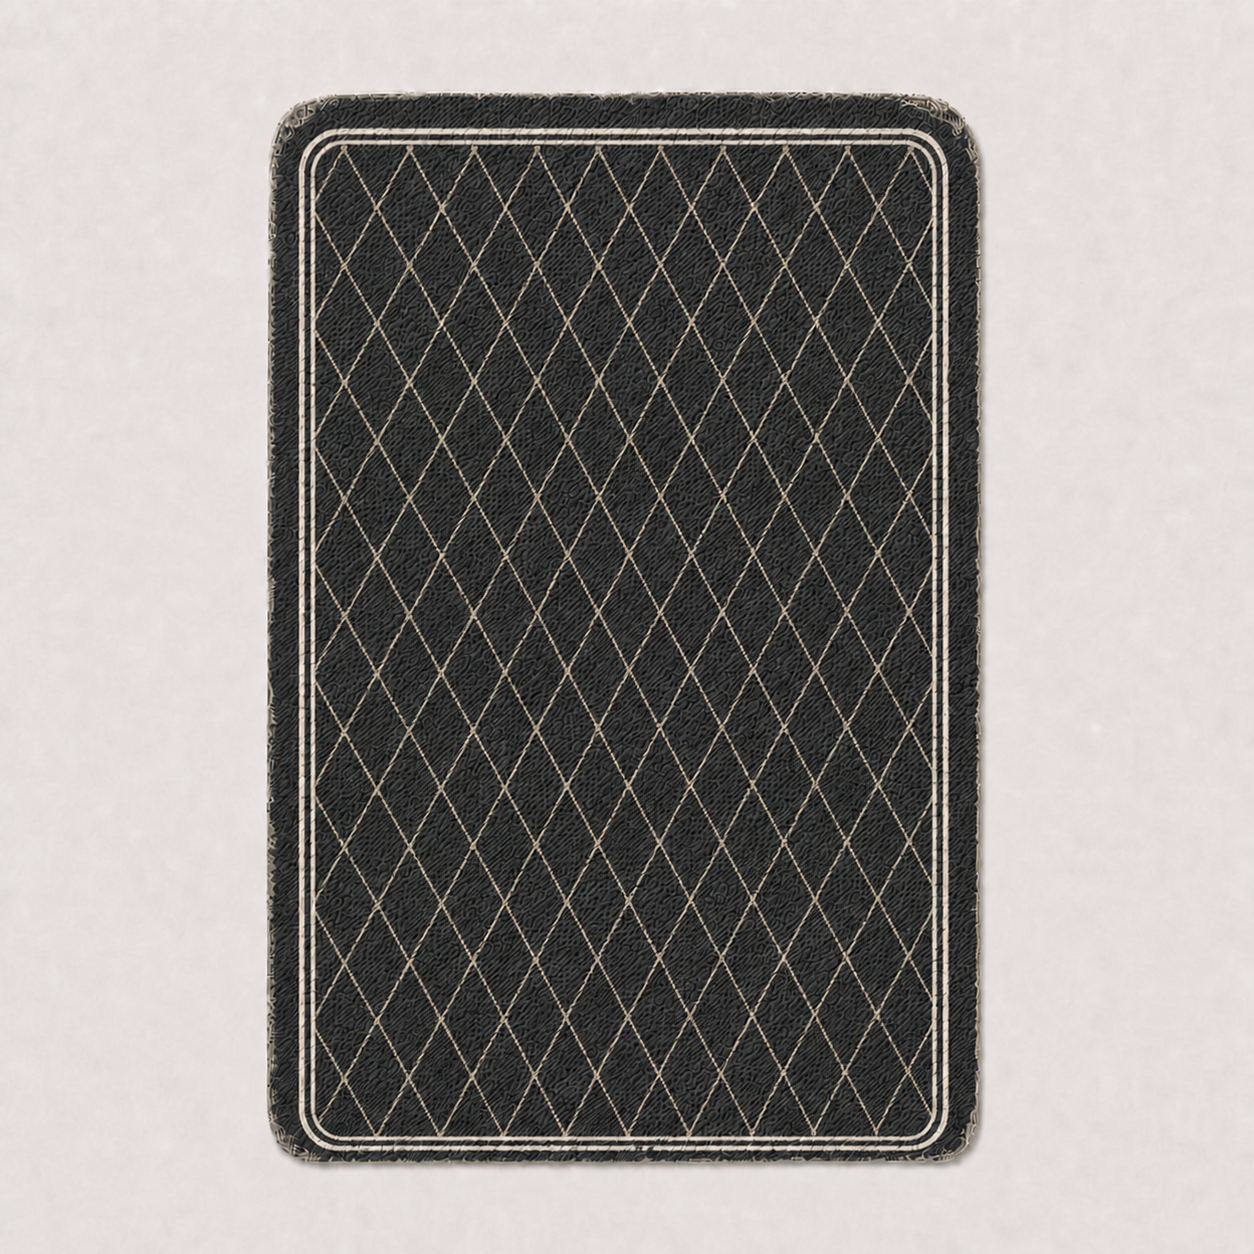
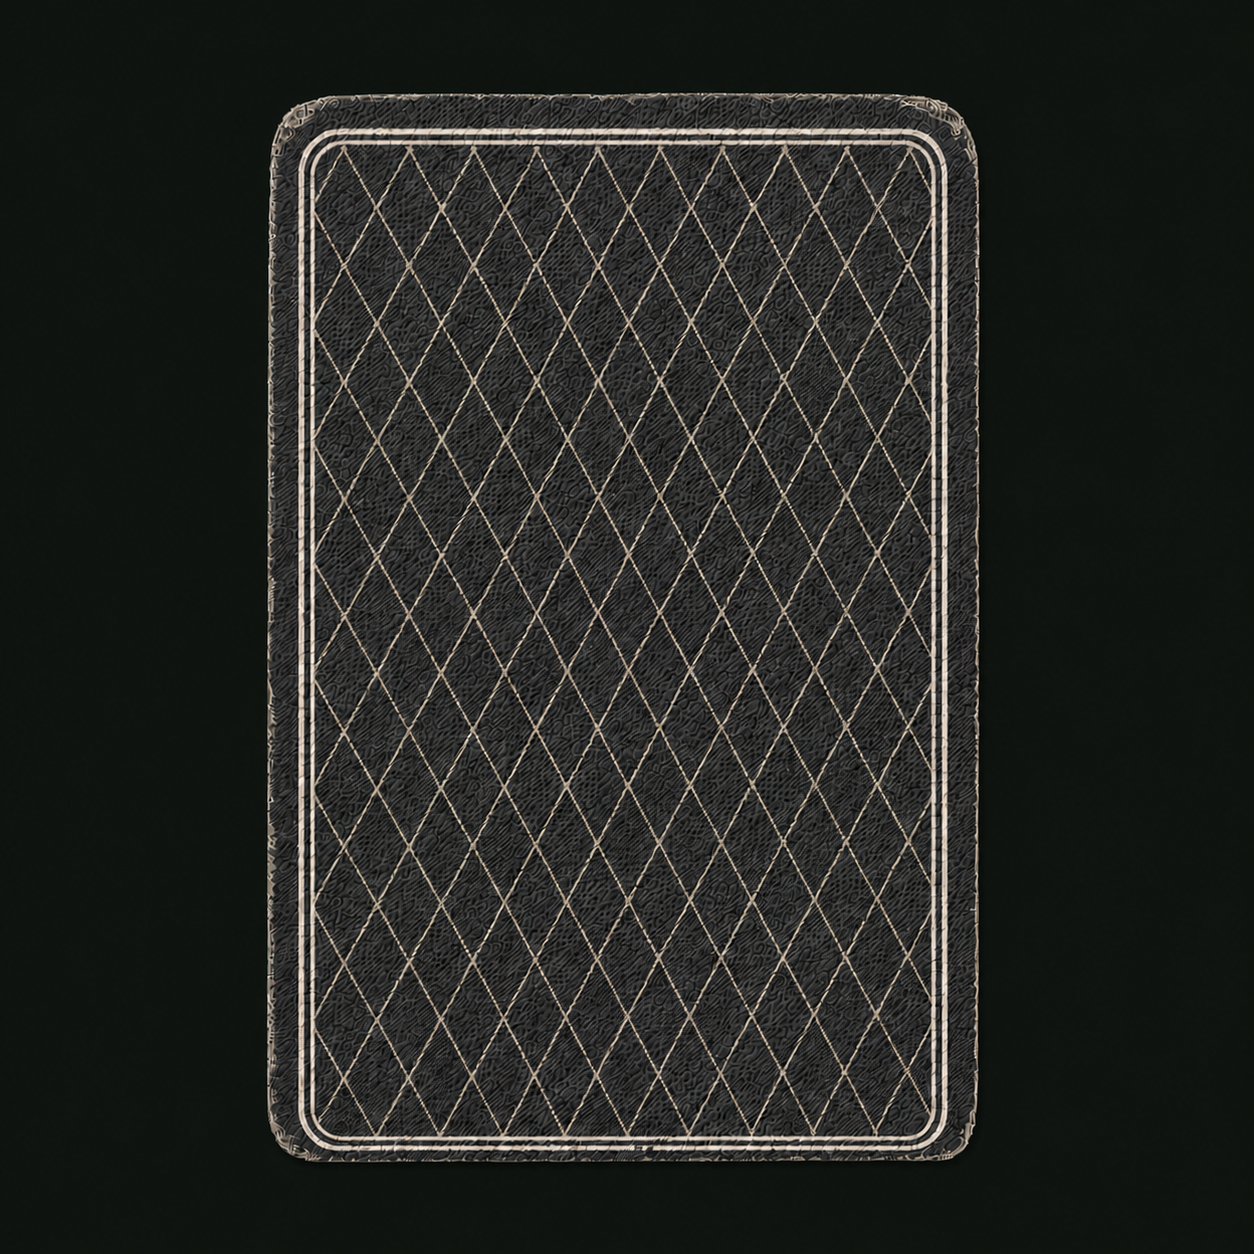
fix: polish invitation reveal flow

diff --git a/components/InvitationExperience.tsx b/components/InvitationExperience.tsx
@@ -8,7 +8,7 @@ type DeviceOrientationPermissionEvent = typeof DeviceOrientationEvent & {
 
 type InvitationExperienceProps = {
   cardFaceUrl: string;
-  lumaUrl?: string;
+  lumaUrl: string;
 };
 
 const MAX_POINTER_TILT = 8;
@@ -171,23 +171,16 @@ export default function InvitationExperience({
             San Francisco {"\u00b7"} Game I
           </p>
           <p>By invitation only</p>
-          {lumaUrl ? (
-            <a
-              className="invite-rsvp"
-              href={lumaUrl}
-              rel="noopener"
-              tabIndex={revealed ? 0 : -1}
-              target="_blank"
-            >
-              Take your seat
-              <span aria-hidden="true">{"\u2197"}</span>
-            </a>
-          ) : (
-            <span className="invite-rsvp is-disabled" aria-disabled="true">
-              RSVP link coming soon
-            </span>
-          )}
-
+          <a
+            className="invite-rsvp"
+            href={lumaUrl}
+            rel="noopener"
+            tabIndex={revealed ? 0 : -1}
+            target="_blank"
+          >
+            Take your seat
+            <span aria-hidden="true">{"\u2197"}</span>
+          </a>
         </div>
       </section>
     </main>

diff --git a/app/invite/invite.css b/app/invite/invite.css
@@ -70,10 +70,6 @@
   border-radius: clamp(0.85rem, 3vw, 1.2rem);
 }
 
-.invite-card-float:not(.is-revealed) {
-  animation: invite-float 3.6s ease-in-out infinite;
-}
-
 .invite-card-tilt {
   --invite-rx: 0deg;
   --invite-ry: 0deg;
@@ -226,11 +222,6 @@
   cursor: not-allowed;
 }
 
-@keyframes invite-float {
-  0%, 100% { transform: translateY(0) rotate(-0.35deg); }
-  50% { transform: translateY(-0.65rem) rotate(0.35deg); }
-}
-
 @keyframes invite-pulse {
   0%, 100% { opacity: 0.42; }
   50% { opacity: 0.88; }
@@ -254,7 +245,6 @@
 }
 
 @media (prefers-reduced-motion: reduce) {
-  .invite-card-float,
   .invite-prompt {
     animation: none;
   }

diff --git a/app/invite/page.tsx b/app/invite/page.tsx
@@ -1,5 +1,7 @@
 import InvitationExperience from "@/components/InvitationExperience";
 
+const DEFAULT_LUMA_URL = "https://luma.com/z9j4dk9r";
+
 function httpUrl(value: string | undefined) {
   if (!value) return undefined;
 
@@ -19,7 +21,9 @@ export default function InvitePage() {
       cardFaceUrl={
         httpUrl(process.env.INVITE_CARD_FACE_URL) ?? "/invite-card-face.png"
       }
-      lumaUrl={httpUrl(process.env.NEXT_PUBLIC_LUMA_URL)}
+      lumaUrl={
+        httpUrl(process.env.NEXT_PUBLIC_LUMA_URL) ?? DEFAULT_LUMA_URL
+      }
     />
   );
 }

diff --git a/app/invite/opengraph-image.tsx b/app/invite/opengraph-image.tsx
@@ -17,7 +17,7 @@ export default async function OpenGraphImage() {
     <div
       style={{
         alignItems: "center",
-        background: "#f1efec",
+        background: "#0d120f",
         display: "flex",
         height: "100%",
         justifyContent: "center",

diff --git a/README.md b/README.md
@@ -31,9 +31,10 @@ The unlisted invitation uses one universal URL:
 /invite
 ```
 
-Set `NEXT_PUBLIC_LUMA_URL` to the event RSVP page. The supplied, cropped card
-artwork is stored at `public/invite-card-face.png`; `INVITE_CARD_FACE_URL` can
-override it with an absolute URL. The approved diamond back is stored at
+The current Luma RSVP page is built in, and `NEXT_PUBLIC_LUMA_URL` can override
+it for a future event. The supplied, cropped card artwork is stored at
+`public/invite-card-face.png`; `INVITE_CARD_FACE_URL` can override it with an
+absolute URL. The approved diamond back is stored at
 `public/invite-card-back.png` and is also used for the link preview. The route
 is excluded from search indexing so the unlisted invitation stays private.
 Luma handles registration, confirmation email, calendar invites, mobile wallet
